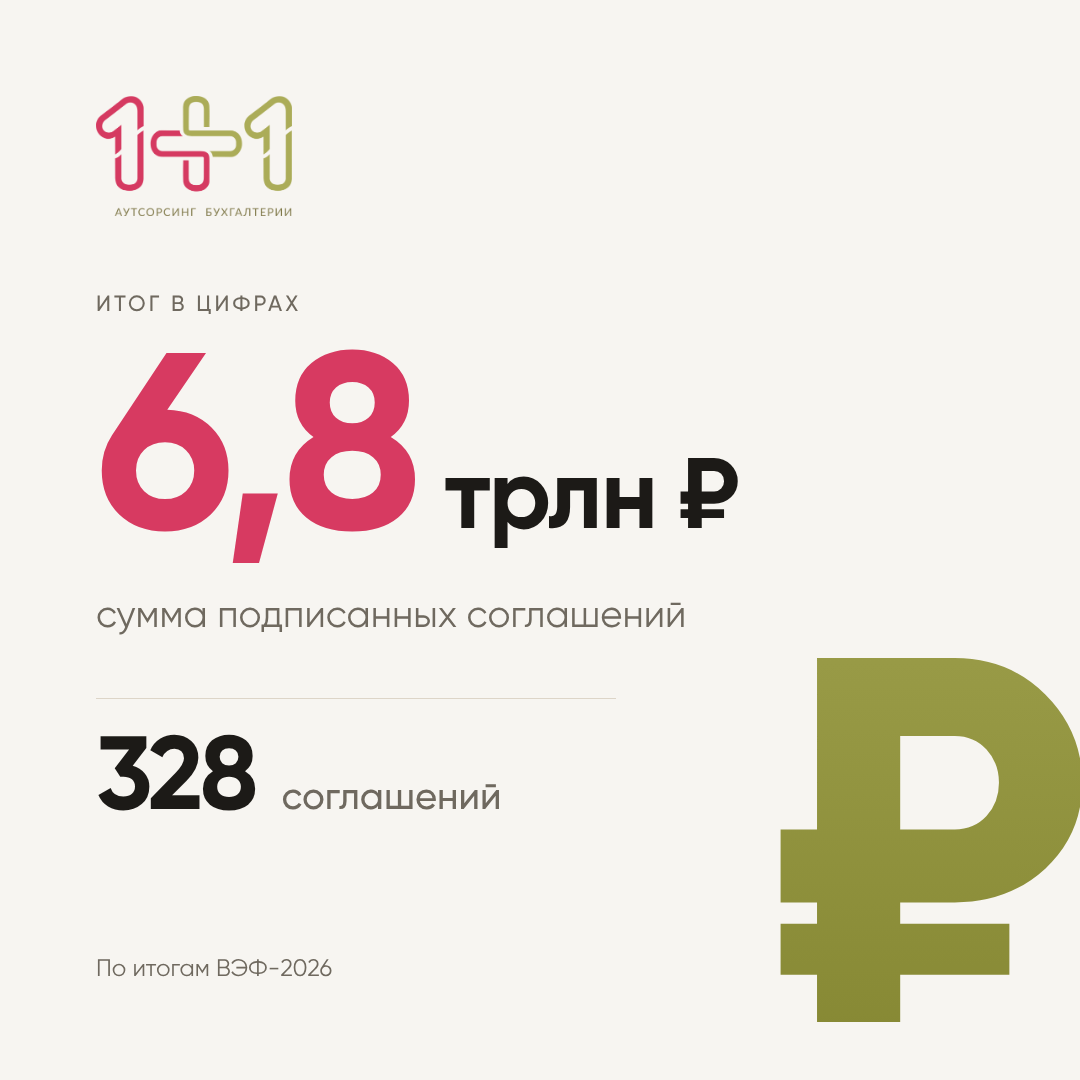
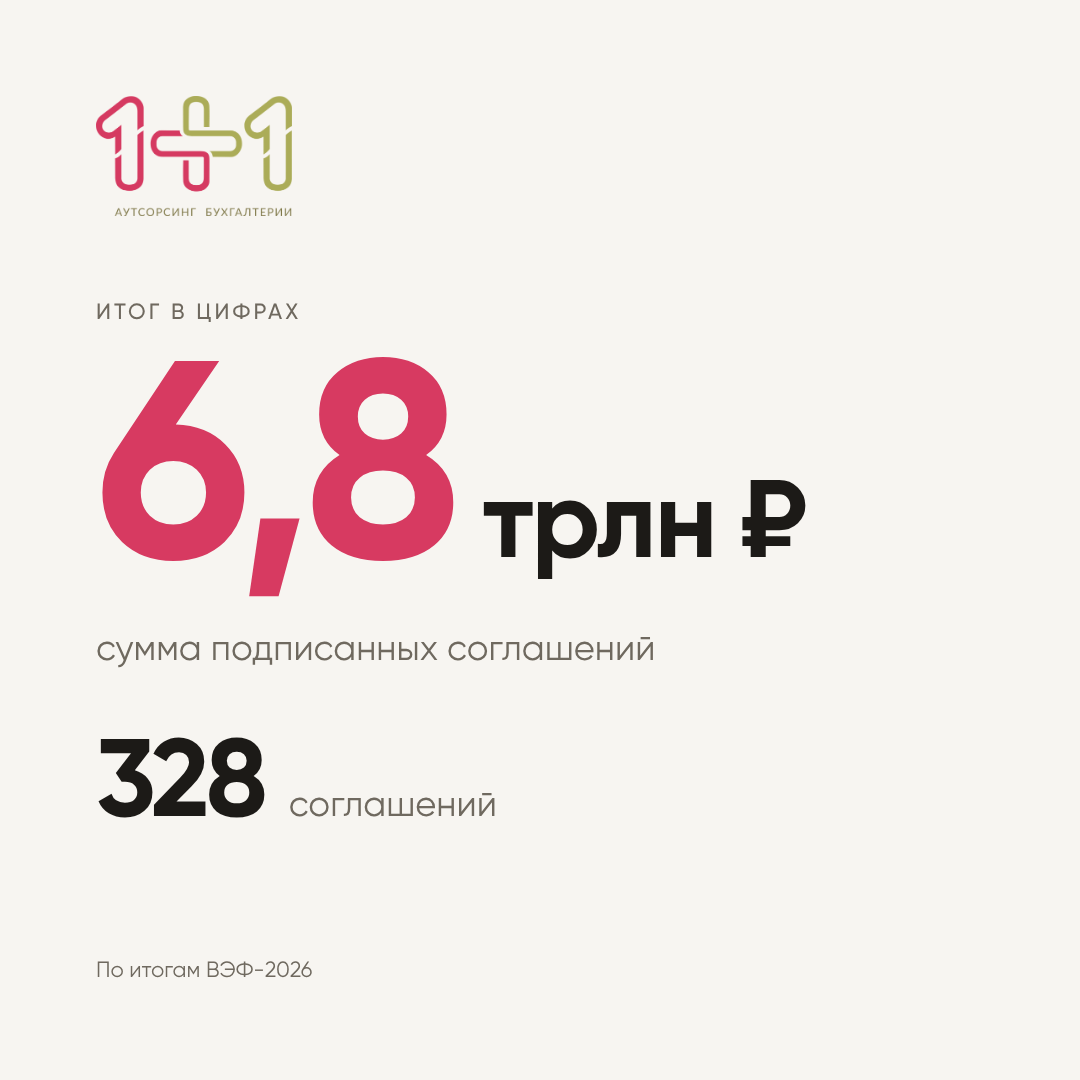
Simplify number layout V4: remove ruble shape and divider, unify sizes
Claude-Session: https://claude.ai/code/session_01VZ7Hrkur6jxoGp5f6QSiLJ

diff --git a/specimens/v4-number.html b/specimens/v4-number.html
@@ -2,22 +2,20 @@
 <link rel="stylesheet" href="base.css">
 <style>
 .canvas{background:var(--paper)}
-.ruble{position:absolute;right:-10px;bottom:-60px;font-weight:800;font-size:520px;line-height:1;
-  background:linear-gradient(180deg,#9A9C48 0%,#82842F 100%);-webkit-background-clip:text;background-clip:text;color:transparent}
+
 .logo{width:196px}
-.text{position:absolute;left:96px;top:292px;right:96px}
+.text{position:absolute;left:96px;top:300px;right:96px}
 .label{font-weight:500;font-size:22px;letter-spacing:.14em;color:var(--stone);text-transform:uppercase;margin-bottom:34px}
 .hero{display:flex;align-items:baseline;gap:30px;color:var(--graphite);white-space:nowrap}
-.hero .n{font-weight:700;font-size:250px;line-height:.86;letter-spacing:-.035em;color:var(--crimson)}
-.hero .u{font-weight:700;font-size:100px;line-height:1;letter-spacing:-.02em}
-.cap{margin-top:26px;font-weight:400;font-size:38px;line-height:1.25;color:var(--stone)}
-.second{margin-top:56px;padding-top:36px;border-top:1.5px solid var(--sand);display:flex;align-items:baseline;gap:26px;width:520px}
-.second .n{font-weight:700;font-size:104px;line-height:.9;letter-spacing:-.03em;color:var(--graphite)}
-.second .u{font-weight:500;font-size:38px;color:var(--stone)}
-.foot{position:absolute;left:96px;bottom:96px;font-weight:400;font-size:24px;color:var(--stone)}
+.hero .n{font-weight:700;font-size:280px;line-height:.86;letter-spacing:-.035em;color:var(--crimson)}
+.hero .u{font-weight:700;font-size:110px;line-height:1;letter-spacing:-.02em}
+.cap{margin-top:26px;font-weight:400;font-size:36px;line-height:1.25;color:var(--stone)}
+.second{margin-top:64px;display:flex;align-items:baseline;gap:24px}
+.second .n{font-weight:700;font-size:110px;line-height:.9;letter-spacing:-.03em;color:var(--graphite)}
+.second .u{font-weight:400;font-size:36px;color:var(--stone)}
+.foot{position:absolute;left:96px;bottom:96px;font-weight:400;font-size:22px;color:var(--stone)}
 </style></head><body>
 <div class="canvas">
-  <div class="ruble">₽</div>
   <img class="logo" src="../assets/logo-full.png" alt="">
   <div class="text">
     <div class="label">Итог в цифрах</div>

diff --git a/docs/readme-v2.md b/docs/readme-v2.md
@@ -41,7 +41,9 @@
    Блок, прижатый к низу при пустом верхе, нарушает баланс.
 3. **Голос одного цвета.** Акцент один: малиновый, на одном слове, цифре, черте или плашке.
    Два акцента на макет не нужны.
-4. **Убери.** Уберите любой элемент. Если макет не пострадал, элемент лишний.
+4. **Убери.** Уберите любой элемент. Если макет не пострадал, элемент лишний. Если кажется, что
+   деталей много: сначала убрать декор (знак, линия, узор), потом свести размеры. На макете не больше
+   четырёх размеров текста и не больше одного декоративного средства.
 5. **Лента.** Положите макет рядом с двумя соседними. Он должен выглядеть как из той же серии:
    тон, насыщенность и плотность те же.
 
@@ -141,7 +143,7 @@ Gilroy — единственный шрифт. Файлы Light–Extrabold в 
 ### 5.1. Линейный знак
 Тематический знак рисуется **тонкой линией** (1,5–2 px), одним цветом: прозрачность 8–14% на светлом,
 14–22% на графите. Заливки допустимы только как один крупный тональный знак в цвете `olive-field`
-(рубль в углу макета «Итог в цифрах»). Не больше одного знака на макет; с фото в кадре не сочетается.
+(на светлых макетах с числом допустимо, но не обязательно). Не больше одного знака на макет; с фото в кадре не сочетается.
 Набор мотивов: каркасный глобус, знак рубля, молоток, солнце, лист реестра, сетка координат,
 концентрические окружности, печать. Рисуется кодом (SVG), одной манерой линии.
 

diff --git a/docs/layout-catalog.md b/docs/layout-catalog.md
@@ -69,11 +69,14 @@
 ## V4 · Цифра
 
 - **Когда:** итоги, статистика, рейтинг.
-- **Герой:** число 250 px Bold, малиновое, единица рядом 100 px Bold графитовая.
+- **Герой:** число 280 px Bold малиновое, единица рядом 110 px Bold графитовая.
 - **Слоты:** метка, число + единица, подпись, второе число (опционально), сноска.
-- **Акцент:** только число (малиновое). Второе число графитовое.
-- **Декор:** один: знак ₽ (или другой тематический символ), залитый `olive-field`, в правом нижнем углу.
-- **Фон:** `paper`.
+- **Акцент:** только первое число. Второе число графитовое, 110 px.
+- **Размеры:** четыре на весь макет: 280, 110, 36, 22. Подпись и единицы 36 px `stone`.
+- **Декор:** нет. Чистый `paper`: воздух и цифра сами держат макет. Знак ₽ в углу и разделительная линия
+  убраны: это были лишние детали.
+
+---
 
 ## V5 · Список
 

diff --git a/specimens/README.md b/specimens/README.md
@@ -10,7 +10,7 @@
 | `v1b-photo-rule` | V1-Б, без плашки | то же фото, подзаголовок белый, малиновая черта над ним |
 | `v2-news-graphite` | V2, новость на графите | заголовок 122 px, `pattern-2` |
 | `v3-news-green` | V3, новость на зелёном | заголовок 146 px Bold, малиновая плашка с датой |
-| `v4-number` | V4, цифра | число 6,8 малиновым, знак ₽ залит зелёным |
+| `v4-number` | V4, цифра | число 6,8 малиновым, без декора |
 | `v5-list` | V5, список | заголовок и пункты с малиновыми плюсами |
 | `v6-team` | V6, команда | `studio-0484`, слово-акцент в заголовке |
 | `v7-thesis` | V7, тезис | белый текст на тёмной бетонной фактуре |
